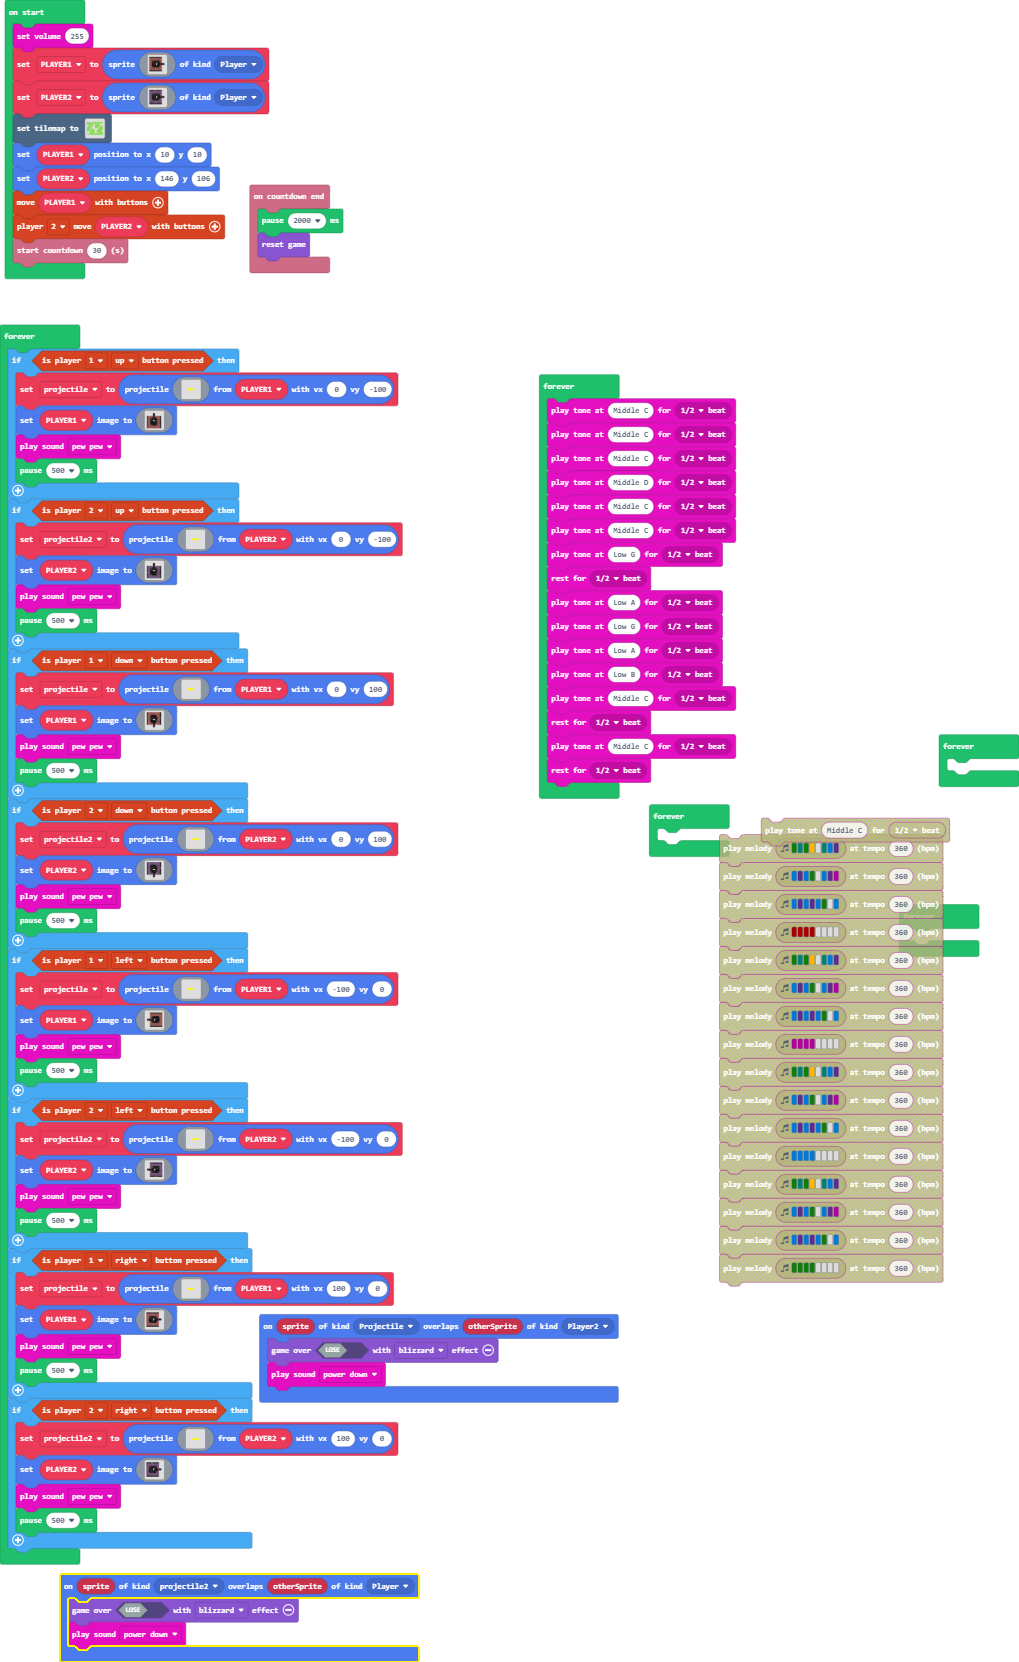
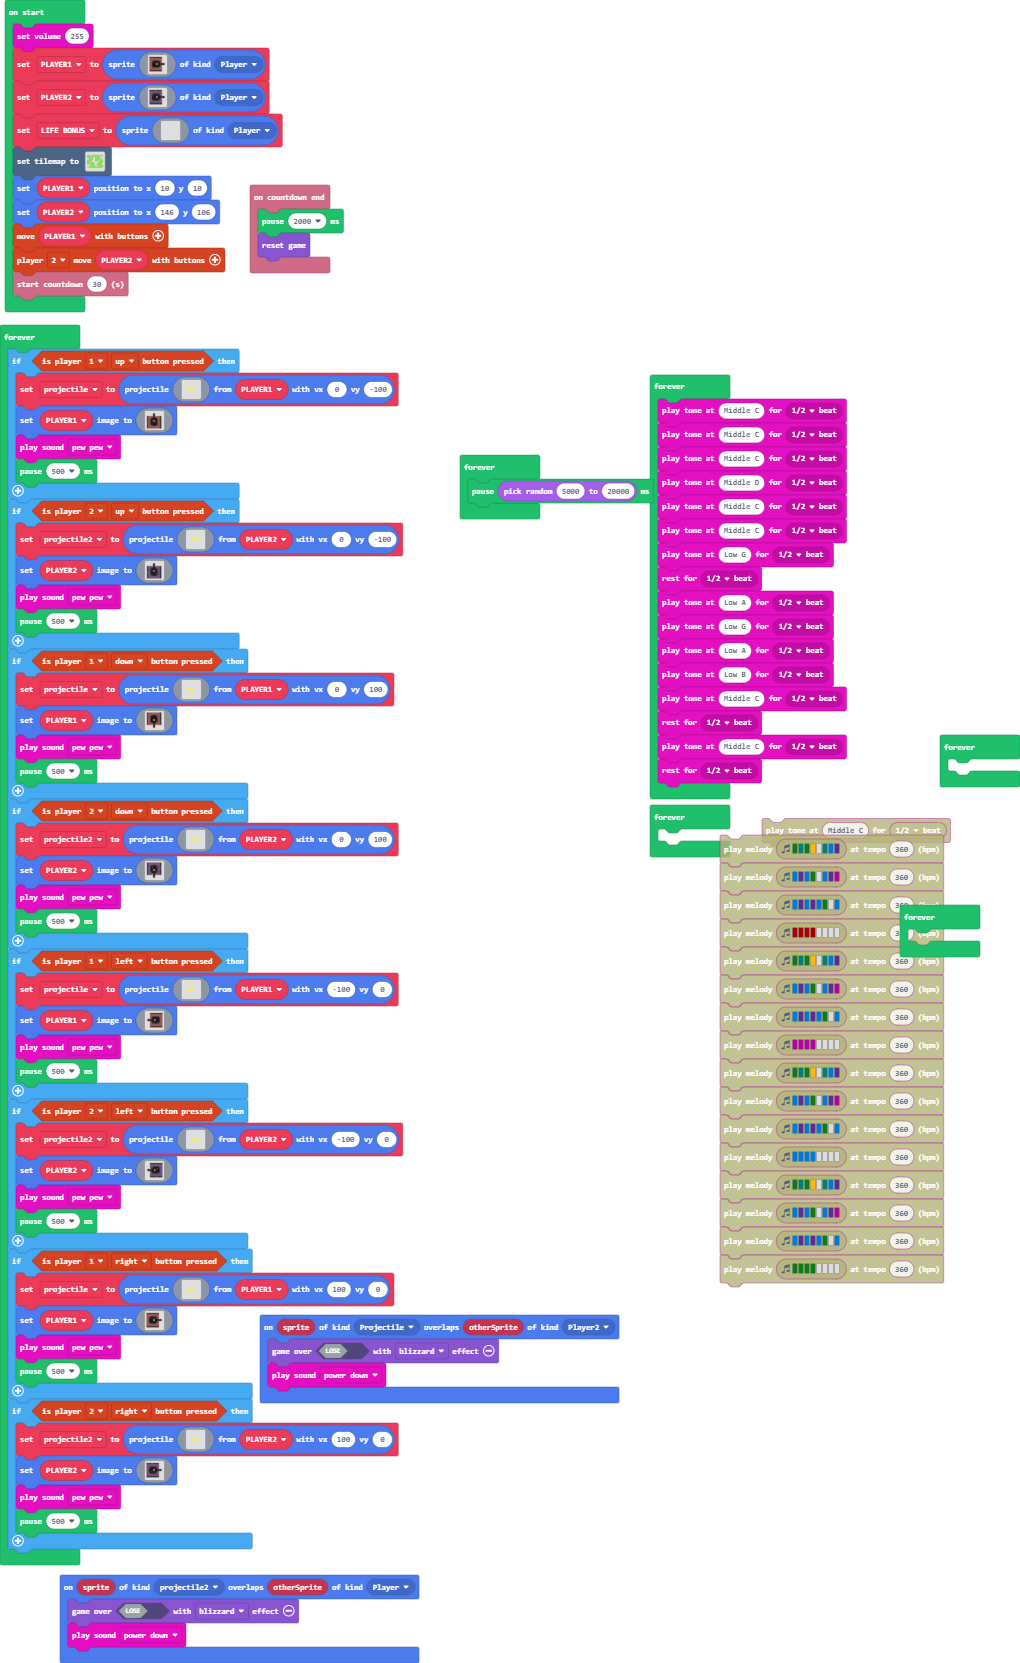
Update main.blocks, main.ts

diff --git a/main.ts b/main.ts
@@ -3,8 +3,7 @@ namespace SpriteKind {
     export const Player2 = SpriteKind.create()
 }
 sprites.onOverlap(SpriteKind.Projectile, SpriteKind.Player2, function (sprite, otherSprite) {
-    projectile.destroy()
-    info.player2.changeLifeBy(-1)
+    game.over(false, effects.blizzard)
     music.powerDown.play()
 })
 info.onCountdownEnd(function () {
@@ -12,15 +11,12 @@ info.onCountdownEnd(function () {
     game.reset()
 })
 sprites.onOverlap(SpriteKind.projectile2, SpriteKind.Player, function (sprite, otherSprite) {
-    projectile2.destroy()
-    info.changeLifeBy(-1)
+    game.over(false, effects.blizzard)
     music.powerDown.play()
 })
 let projectile2: Sprite = null
 let projectile: Sprite = null
 music.setVolume(255)
-info.setLife(5)
-info.player2.setLife(5)
 let PLAYER1 = sprites.create(img`
     f f f f f f f f f f f f f f . . . . 
     e e e e e e e e e e e e e e . . . . 
@@ -56,7 +52,25 @@ let PLAYER2 = sprites.create(img`
     c c c c c c c c e c c c c c . . . . 
     c c c c c c c c c c c c c c . . . . 
     f f f f f f f f f f f f f f . . . . 
-    `, SpriteKind.Player2)
+    `, SpriteKind.Player)
+let LIFE_BONUS = sprites.create(img`
+    . . . . . . . . . . . . . . . . 
+    . . . . . . . . . . . . . . . . 
+    . . . . . . . . . . . . . . . . 
+    . . . . . . . . . . . . . . . . 
+    . . . . . . . . . . . . . . . . 
+    . . . . . . . . . . . . . . . . 
+    . . . . . . . . . . . . . . . . 
+    . . . . . . . . . . . . . . . . 
+    . . . . . . . . . . . . . . . . 
+    . . . . . . . . . . . . . . . . 
+    . . . . . . . . . . . . . . . . 
+    . . . . . . . . . . . . . . . . 
+    . . . . . . . . . . . . . . . . 
+    . . . . . . . . . . . . . . . . 
+    . . . . . . . . . . . . . . . . 
+    . . . . . . . . . . . . . . . . 
+    `, SpriteKind.Player)
 tiles.setTilemap(tilemap`level1`)
 PLAYER1.setPosition(10, 10)
 PLAYER2.setPosition(146, 106)
@@ -125,7 +139,6 @@ forever(function () {
             . . . . . . . . . . . . . . . . 
             . . . . . . . . . . . . . . . . 
             `, PLAYER2, 0, -100)
-        projectile2.setKind(SpriteKind.projectile2)
         PLAYER2.setImage(img`
             . . . . . . . . . . . . . . . . 
             . . . . . . . f f . . . . . . . 
@@ -210,7 +223,6 @@ forever(function () {
             . . . . . . . . . . . . . . . . 
             . . . . . . . . . . . . . . . . 
             `, PLAYER2, 0, 100)
-        projectile2.setKind(SpriteKind.projectile2)
         PLAYER2.setImage(img`
             f c c c c c c c c c c c c c c f 
             f c c e c c c e c c c c c c c f 
@@ -293,7 +305,6 @@ forever(function () {
             . . . . . . . . . . . . . . . . 
             . . . . . . . . . . . . . . . . 
             `, PLAYER2, -100, 0)
-        projectile2.setKind(SpriteKind.projectile2)
         PLAYER2.setImage(img`
             . . . . f f f f f f f f f f f f f f 
             . . . . c c c c c c c c c c c c c c 
@@ -374,7 +385,6 @@ forever(function () {
             . . . . . . . . . . . . . . . . 
             . . . . . . . . . . . . . . . . 
             `, PLAYER2, 100, 0)
-        projectile2.setKind(SpriteKind.projectile2)
         PLAYER2.setImage(img`
             f f f f f f e f f f f f f f . . . . 
             c c c c c c c c c c c c e c . . . . 
@@ -416,7 +426,7 @@ forever(function () {
     music.rest(music.beat(BeatFraction.Half))
 })
 forever(function () {
-	
+    pause(randint(5000, 20000))
 })
 forever(function () {
 	
@@ -425,16 +435,5 @@ forever(function () {
 	
 })
 forever(function () {
-    if (info.life() < 1) {
-        PLAYER2.say("I WIN!!!")
-        pause(4000)
-        game.over(true)
-    }
-})
-forever(function () {
-    if (info.player2.life() < 1) {
-        PLAYER1.say("I WIN!!!")
-        pause(4000)
-        game.over(true)
-    }
+	
 })
